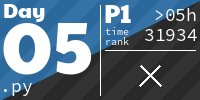
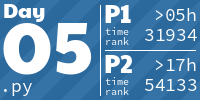
Day 5 Part 2

diff --git a/2024/Day 5/sol.py b/2024/Day 5/sol.py
@@ -12,24 +12,26 @@ def checkrules(line, rules):
                 return 0
     return t[len(t)//2]
 
-# too high on real input, 5434 > 5184
-# does not produce correct lines by only swapping the mistakes 
 def checkrules2(line, rules):
     t = [int(a) for a in line.strip().split(",")]
-    i = 0
-    while i < len(t):
-        x = t[i]
-        for j in range(i):
-            if x not in rules:
-                continue
-            if t[j] in rules[x]:
-                temp = t[j]
-                t[j] = x
-                t[i] = temp
-                i = -1
-        i += 1
-    print("c2",checkrules(line, rules))
-    return t[len(t)//2]
+    tn = []
+    for x in t:
+        if tn == []:
+            tn.append(x)
+        else:
+            index = len(tn)
+            for i in range(len(tn)-1, -1, -1):
+                a = tn[i]
+                if a not in rules:
+                    index -= 1
+                    continue
+                if x not in rules[a]:
+                    index -= 1
+                    continue
+                if x in rules[a]:
+                    break
+            tn = tn[:index] + [x] + tn[index:]
+    return tn[len(t)//2]
 
 rules_banned_predecessors = {}
 rulesection = True

diff --git a/README.md b/README.md
@@ -10,10 +10,10 @@ The graphic below has been created with [aoc-tiles](.pre-commit-config.yaml) scr
 
 <!-- AOC TILES BEGIN -->
 <h1 align="center">
-  Advent of Code - 86/460 ⭐
+  Advent of Code - 87/460 ⭐
 </h1>
 <h1 align="center">
-  2024 - 9 ⭐ - Python
+  2024 - 10 ⭐ - Python
 </h1>
 <a href="2024/Day 1/sol.py">
   <img src=".aoc_tiles/tiles/2024/01.png" width="161px">
